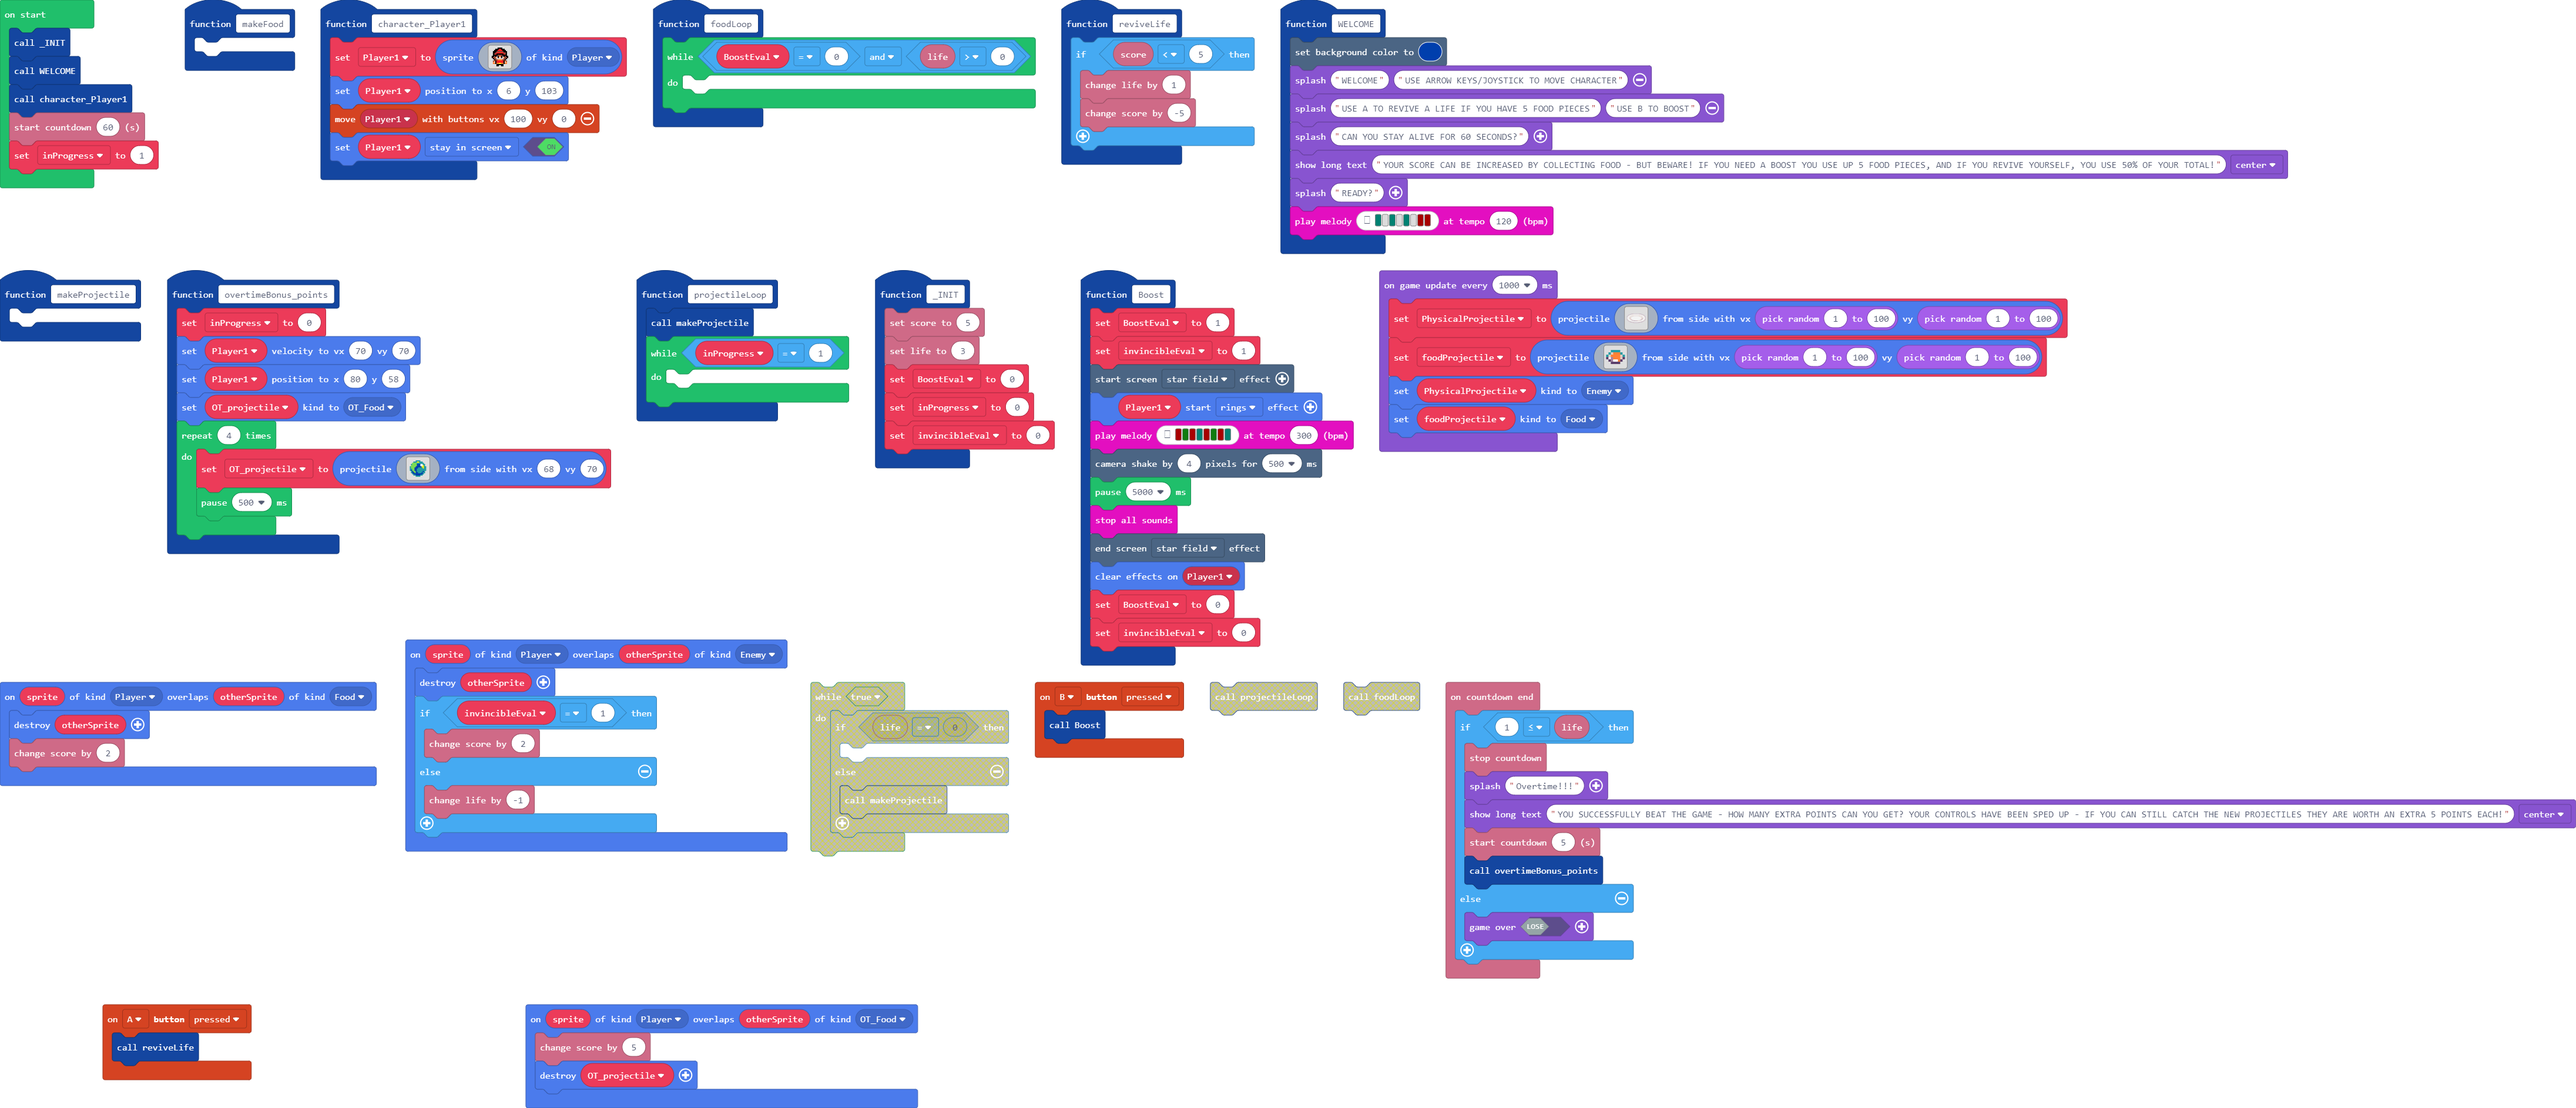
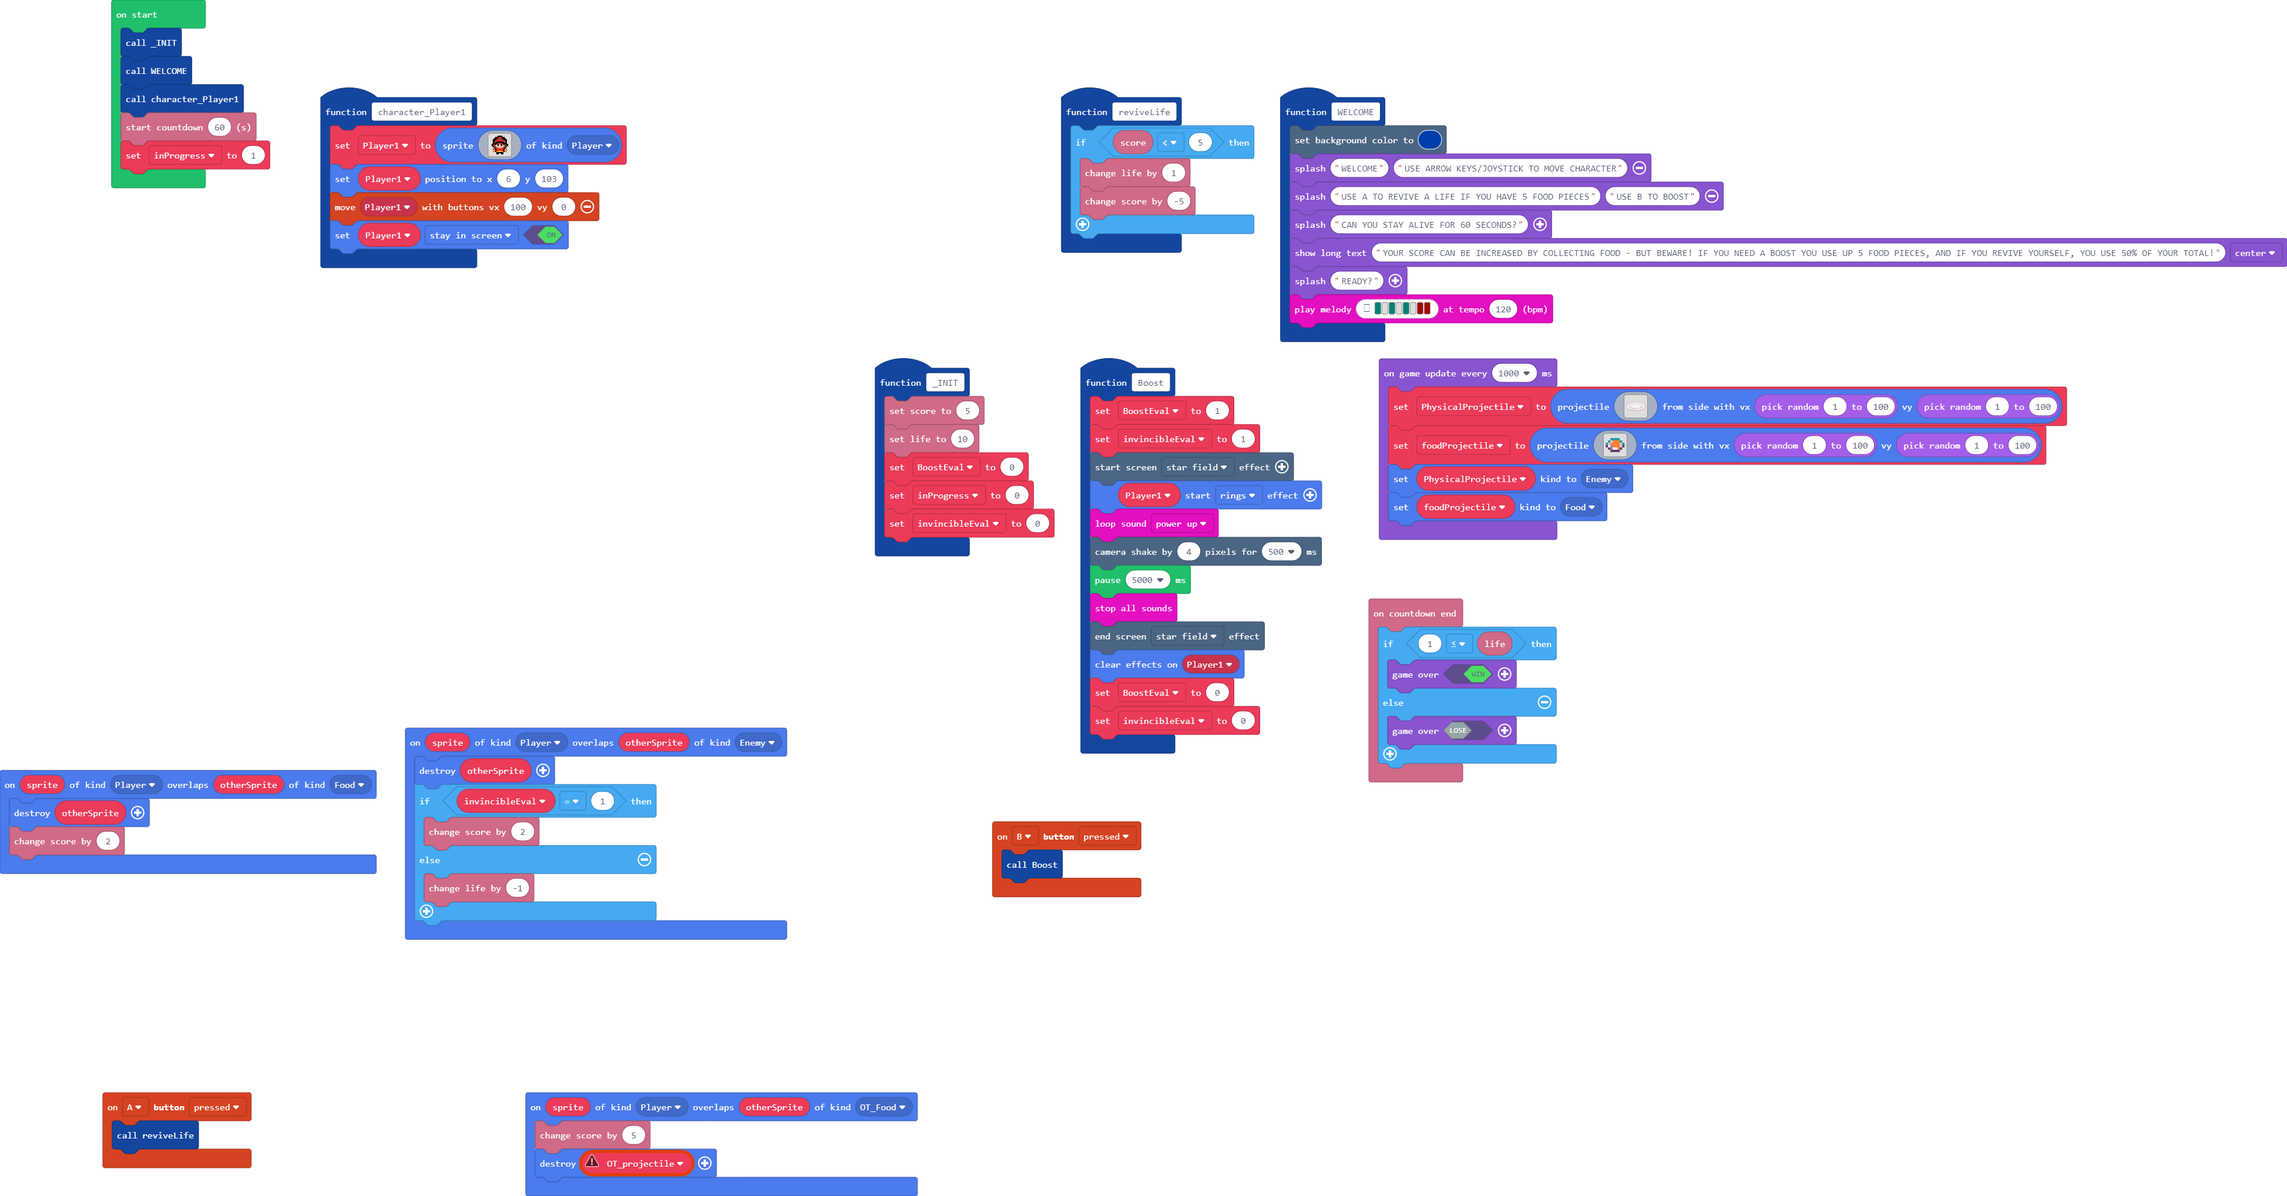
Game made simpler, but fully functioning

diff --git a/main.ts b/main.ts
@@ -2,9 +2,6 @@ namespace SpriteKind {
     export const OT_Food = SpriteKind.create()
     export const NEW_PROJECTILE = SpriteKind.create()
 }
-function makeFood () {
-	
-}
 function character_Player1 () {
     Player1 = sprites.create(img`
 . . . . . . f f f f . . . . . . 
@@ -28,11 +25,6 @@ function character_Player1 () {
     controller.moveSprite(Player1, 100, 0)
     Player1.setFlag(SpriteFlag.StayInScreen, true)
 }
-function foodLoop () {
-    while (BoostEval == 0 && info.life() > 0) {
-    	
-    }
-}
 controller.B.onEvent(ControllerButtonEvent.Pressed, function () {
     Boost()
 })
@@ -49,33 +41,6 @@ function reviveLife () {
 controller.A.onEvent(ControllerButtonEvent.Pressed, function () {
     reviveLife()
 })
-function overtimeBonus_points () {
-    inProgress = 0
-    Player1.setVelocity(70, 70)
-    Player1.setPosition(80, 58)
-    OT_projectile.setKind(SpriteKind.OT_Food)
-    for (let index = 0; index < 4; index++) {
-        OT_projectile = sprites.createProjectileFromSide(img`
-. . . . . . . . . . . . . . . . 
-. . . . . . 6 6 6 6 . . . . . . 
-. . . . 6 6 6 5 5 6 6 6 . . . . 
-. . . 7 7 7 7 6 6 6 6 6 6 . . . 
-. . 6 7 7 7 7 8 8 8 1 1 6 6 . . 
-. . 7 7 7 7 7 8 8 8 1 1 5 6 . . 
-. 6 7 7 7 7 8 8 8 8 8 5 5 6 6 . 
-. 6 7 7 7 8 8 8 6 6 6 6 5 6 6 . 
-. 6 6 7 7 8 8 6 6 6 6 6 6 6 6 . 
-. 6 8 7 7 8 8 6 6 6 6 6 6 6 6 . 
-. . 6 8 7 7 8 6 6 6 6 6 8 6 . . 
-. . 6 8 8 7 8 8 6 6 6 8 6 6 . . 
-. . . 6 8 8 8 8 8 8 8 8 6 . . . 
-. . . . 6 6 8 8 8 8 6 6 . . . . 
-. . . . . . 6 6 6 6 . . . . . . 
-. . . . . . . . . . . . . . . . 
-`, 68, 70)
-        pause(500)
-    }
-}
 sprites.onOverlap(SpriteKind.Player, SpriteKind.Enemy, function (sprite, otherSprite) {
     otherSprite.destroy()
     if (invincibleEval == 1) {
@@ -93,34 +58,22 @@ function WELCOME () {
     game.splash("READY?")
     music.playMelody("F - F - F - C5 C5 ", 120)
 }
-function makeProjectile () {
-	
-}
 info.onCountdownEnd(function () {
     if (1 <= info.life()) {
-        info.stopCountdown()
-        game.splash("Overtime!!!")
-        game.showLongText("YOU SUCCESSFULLY BEAT THE GAME - HOW MANY EXTRA POINTS CAN YOU GET? YOUR CONTROLS HAVE BEEN SPED UP - IF YOU CAN STILL CATCH THE NEW PROJECTILES THEY ARE WORTH AN EXTRA 5 POINTS EACH!", DialogLayout.Center)
-        info.startCountdown(5)
-        overtimeBonus_points()
+        game.over(true)
     } else {
         game.over(false)
     }
 })
-function projectileLoop () {
-    makeProjectile()
-    while (inProgress == 1) {
-    	
-    }
-}
 function _INIT () {
     info.setScore(5)
-    info.setLife(3)
+    info.setLife(10)
     BoostEval = 0
     inProgress = 0
     invincibleEval = 0
 }
 sprites.onOverlap(SpriteKind.Player, SpriteKind.OT_Food, function (sprite, otherSprite) {
+    let OT_projectile: Sprite = null
     info.changeScoreBy(5)
     OT_projectile.destroy()
 })
@@ -129,7 +82,7 @@ function Boost () {
     invincibleEval = 1
     effects.starField.startScreenEffect()
     Player1.startEffect(effects.rings)
-    music.playMelody("C5 G C5 F C5 G C5 F ", 300)
+    music.powerUp.loop()
     scene.cameraShake(4, 500)
     pause(5000)
     music.stopAllSounds()
@@ -140,9 +93,8 @@ function Boost () {
 }
 let foodProjectile: Sprite = null
 let PhysicalProjectile: Sprite = null
-let invincibleEval = 0
-let OT_projectile: Sprite = null
 let BoostEval = 0
+let invincibleEval = 0
 let Player1: Sprite = null
 let inProgress = 0
 _INIT()
